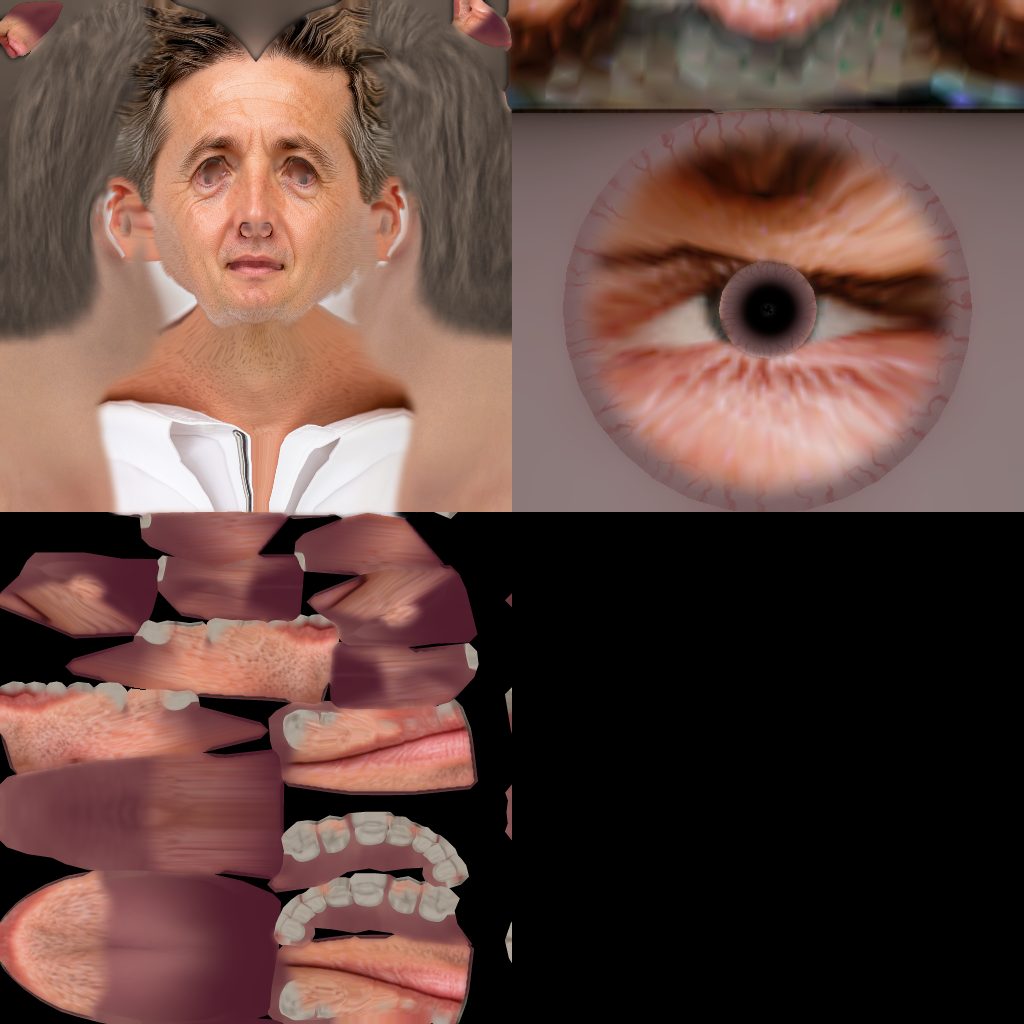
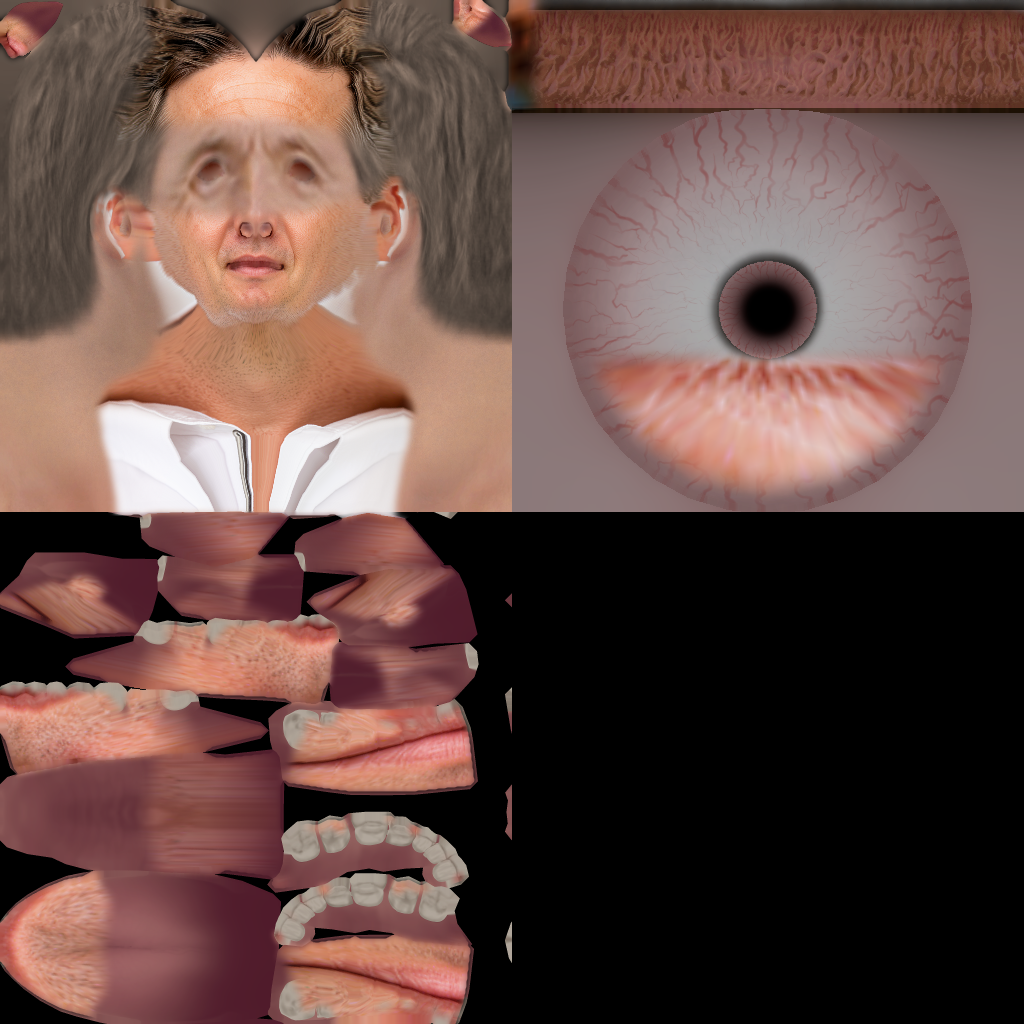
fix: eye-carve in head bake (restore full blinks) + sharper edges
Two regressions from the headtex bake + edge feathering:
- BLINK: the front-projected Klein head overwrote the eye/eyelid/iris region of
  Image_2 (eyes are in the face island, iris in the top-right island), replacing
  the original eye texture tuned to the blink blendshape -> incomplete blinks.
  hair_compose.py now carves both eye apertures + the iris island back to original
  (skin/hair stay Klein-improved). Regenerated anchorM_klein_head.png. Blinks full.
- EDGES too soft: render matte feather 1.5->1.0; FlashVSR head-matte erode 26->14,
  feat 20->12, so diffusion sharpening reaches closer to the hairline. Verified
  sharper hair edge, still halo-free.

Claude-Session: https://claude.ai/code/session_01Mp7yfh8kMAHbap3aCsmHk2

Changed region(s): [[0.5, 0.0, 1.0, 0.375], [0.0938, 0.0938, 0.375, 0.2188]]

diff --git a/viverse_avatar/hair_compose.py b/viverse_avatar/hair_compose.py
@@ -1,0 +1,30 @@
+"""Host composite for the Klein head bake: blend the front-projected Klein head onto the original
+head texture (Image_2) with a feathered facing mask, then CARVE the eyes back to original so blinks
+read correctly (baking Klein's open-eye projection over the eye/eyelid/iris region broke full blinks).
+Inputs (from hair_reproject.py frontbake): hb_orig_head.png, hb_baked_front.png, hb_facing.png.
+  python3 hair_compose.py <orig> <baked_front> <facing> <out_tex.png>
+Eye-carve coords are measured on a 1024 atlas and scaled to the actual texture size.
+"""
+import sys, cv2, numpy as np
+orig  = cv2.imread(sys.argv[1], cv2.IMREAD_UNCHANGED)
+baked = cv2.imread(sys.argv[2], cv2.IMREAD_UNCHANGED)
+face  = cv2.imread(sys.argv[3], cv2.IMREAD_GRAYSCALE).astype(np.float32) / 255.0
+out_path = sys.argv[4]
+H, W = orig.shape[:2]
+if baked.shape[:2] != (H, W): baked = cv2.resize(baked, (W, H))
+if face.shape[:2]  != (H, W): face  = cv2.resize(face,  (W, H))
+cov = (baked[:, :, 3].astype(np.float32) / 255.0) if baked.shape[2] == 4 else (baked.sum(2) > 8).astype(np.float32)
+# facing-weighted, front-only blend (smoothstep)
+t = np.clip((face - 0.18) / (0.55 - 0.18), 0, 1); m = t * t * (3 - 2 * t)
+m = m * cov
+# --- carve eyes (keep original eye/eyelid + iris island) so blinks stay full ---
+sx, sy = W / 1024.0, H / 1024.0
+carve = np.ones((H, W), np.float32)
+cv2.ellipse(carve, (int(240*sx), int(168*sy)), (int(150*sx), int(48*sy)), 0, 0, 360, 0.0, -1)  # both eye apertures
+carve[0:int(360*sy), int(535*sx):W] = 0.0                                                       # iris island (top-right)
+carve = cv2.GaussianBlur(carve, (0, 0), 6.0)
+m = cv2.GaussianBlur(m * carve, (0, 0), 3.0)[..., None]
+out = (baked[:, :, :3].astype(np.float32) * m + orig[:, :, :3].astype(np.float32) * (1 - m)).clip(0, 255).astype(np.uint8)
+res = orig.copy(); res[:, :, :3] = out
+cv2.imwrite(out_path, res[:, :, :3])
+print("HEADTEX_OK (eyes carved) meanM=%.3f -> %s" % (m.mean(), out_path))

diff --git a/render/flashvsr/composite.py b/render/flashvsr/composite.py
@@ -36,8 +36,8 @@ boxmask[:, :r] *= ramp[None, :]; boxmask[:, -r:] *= ramp[None, ::-1]
 # the boundary stays the clean feathered Lanczos edge. EROD/FEAT are in 1440p px.
 matte_dir = f"/workspace/myinput/matte_{stem}"
 use_matte = os.path.isdir(matte_dir)
-EROD = int(os.environ.get("MATTE_EROD", "26"))
-FEAT = float(os.environ.get("MATTE_FEAT", "20"))
+EROD = int(os.environ.get("MATTE_EROD", "14"))
+FEAT = float(os.environ.get("MATTE_FEAT", "12"))
 ker = cv2.getStructuringElement(cv2.MORPH_ELLIPSE, (2*EROD+1, 2*EROD+1))
 print(f"[cmp] head-matte={'ON' if use_matte else 'OFF'} erod={EROD} feat={FEAT}", flush=True)
 

diff --git a/render/composite_premult.py b/render/composite_premult.py
@@ -13,7 +13,7 @@ unpremultiply to true color first (guarded), then re-over with the feathered alp
 """
 import cv2, numpy as np, glob, os, sys
 d = sys.argv[1]
-FEATHER = float(os.environ.get("FEATHER", "1.5"))   # gaussian sigma in px for the alpha edge ramp
+FEATHER = float(os.environ.get("FEATHER", "1.0"))   # gaussian sigma in px for the alpha edge ramp
 ERODE   = int(os.environ.get("ERODE", "1"))          # px to pull the matte in before feathering
 bg = cv2.imread(os.path.join(d, "bg.png")).astype(np.float32)
 frames = sorted(glob.glob(os.path.join(d, "f[0-9][0-9][0-9][0-9].png")))
